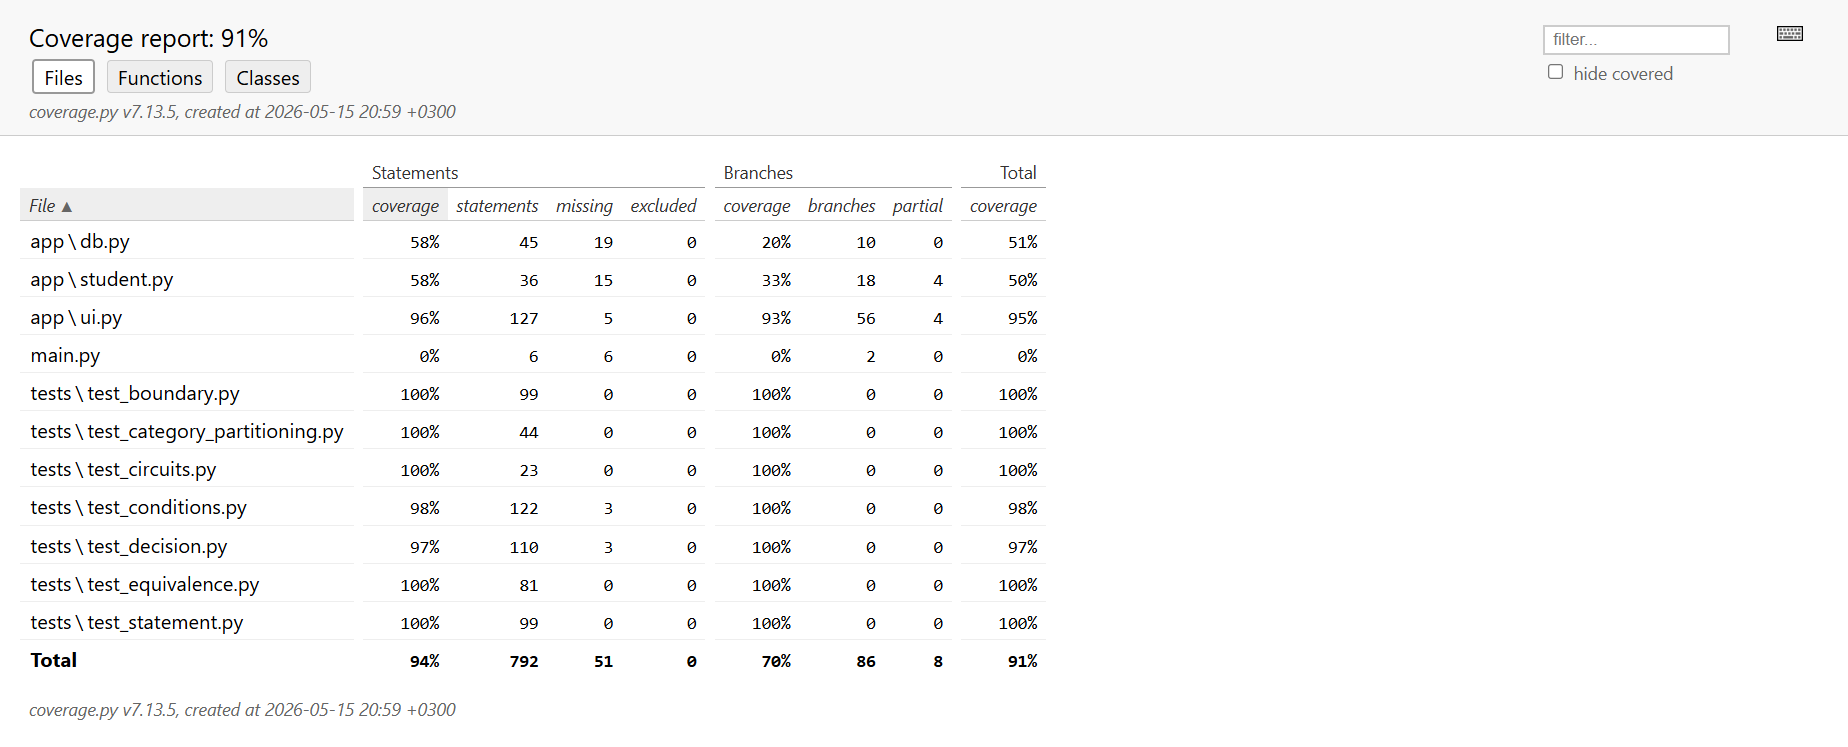
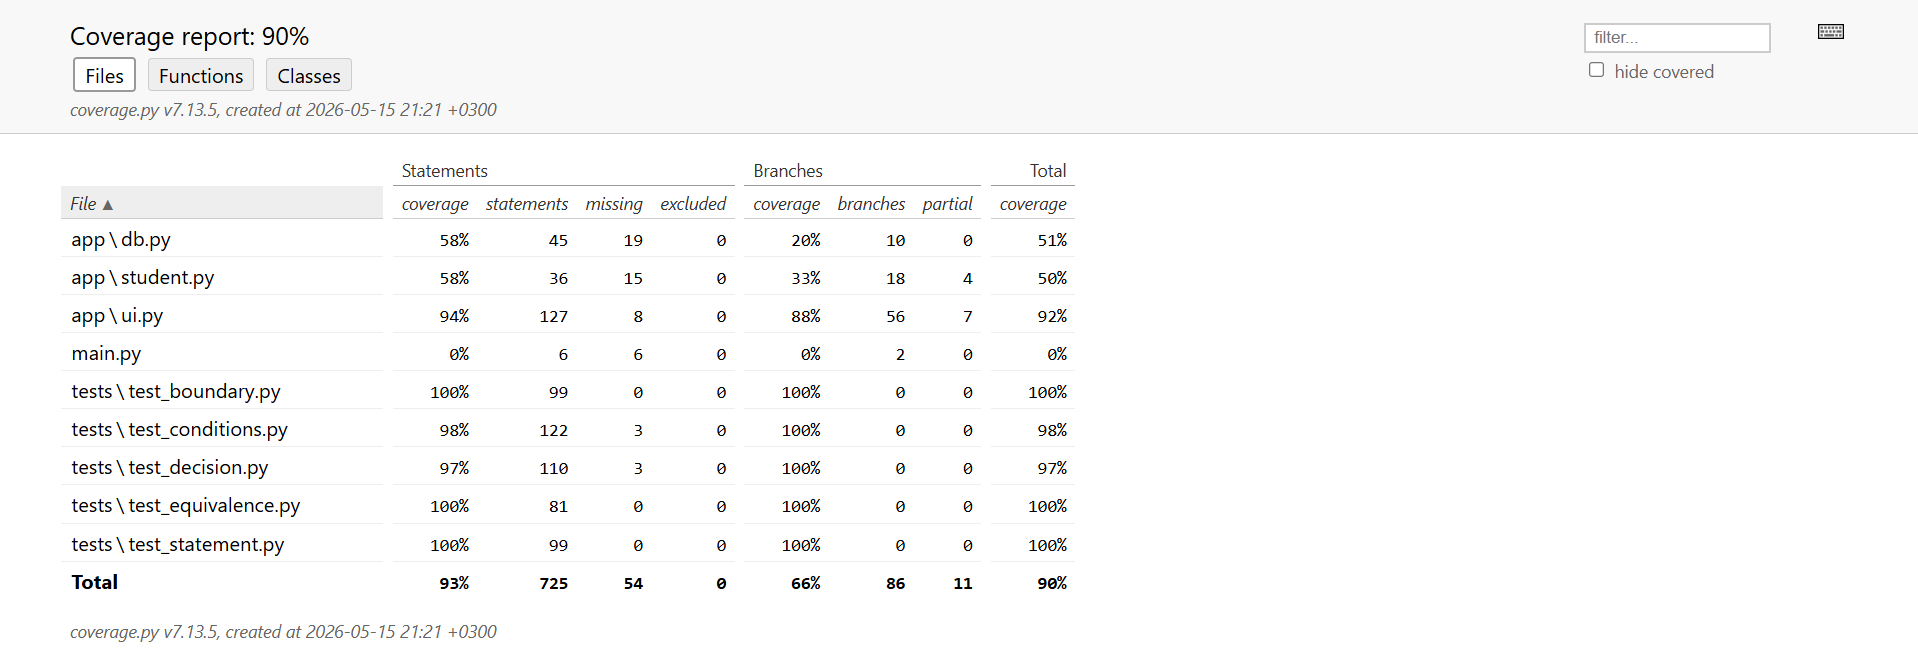
Fix ReadME

diff --git a/README.md b/README.md
@@ -238,8 +238,10 @@ Testarea la nivel de mutații pentru cele două funcții ui.menu și ui.filter_s
 - pentru ui.menu singurii mutanți neeliminați sunt cei care modifică codul folosit pentru ieșirea din program (astfel programul nu se mai oprește singur)
 - pentru ui.filter_students singurii mutanți neeliminați sunt cei care modifică mesajul de la excepția ValueError
 
---------------------------------------------------
-### Rulare teste si coverage
+
+## Rulare teste si coverage
+
 ![graph](./docs/tests.png)
 ![graph](./docs/coverage.png)
+
 Comanda pentru coverage cu raport HTML: pytest --cov=. --cov-branch --cov-report=html --cov-report=term-missing
